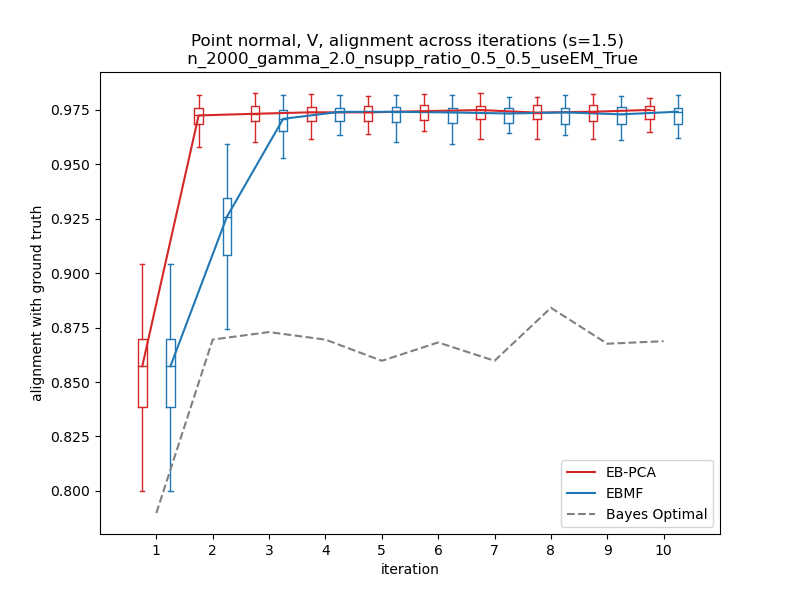
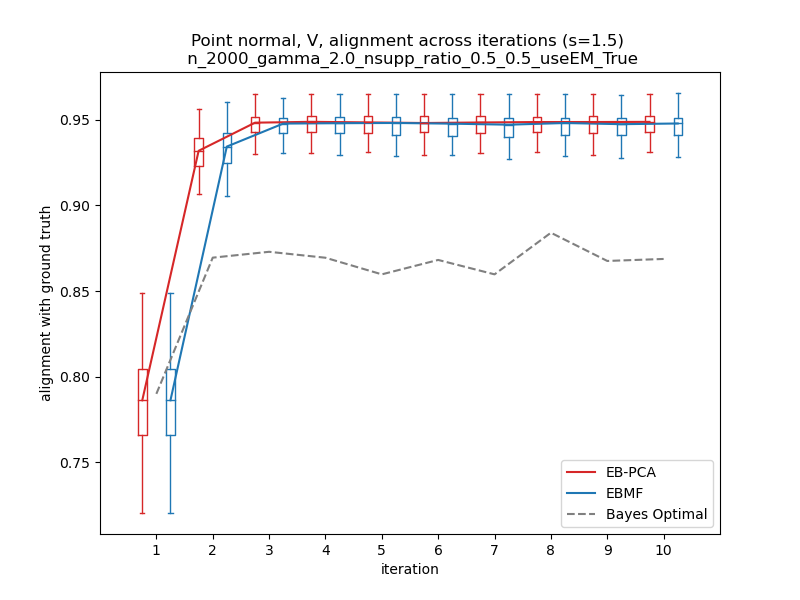
chore: SE progression plots

diff --git a/simulation/rank_one_alignment_iter.py b/simulation/rank_one_alignment_iter.py
@@ -11,10 +11,10 @@ from ebpca.state_evolution import get_state_evolution, get_alignment_evolution, 
 # boxplot
 # ----------------------------------------------
 
-def load_alignments(prior, method, PC = 'left', rm_na=False, prefix = ''):
+def load_alignments(prior, method, PCname = 'U', rm_na=False, prefix = ''):
     prefix = prefix + '/'
     align_dir = 'output/univariate/%s/%salignments' % (prior, prefix)
-    if PC == 'left':
+    if PCname == 'U':
         align = np.load('%s/%s_u_s_%.1f_n_rep_%i.npy' % (align_dir, method, s, n_rep)).T
     else:
         align = np.load('%s/%s_v_s_%.1f_n_rep_%i.npy' % (align_dir, method, s, n_rep)).T
@@ -24,8 +24,8 @@ def load_alignments(prior, method, PC = 'left', rm_na=False, prefix = ''):
         align = align.tolist()
     return align
 
-def group_alignments(prior, rm_na=False, prefix = ''):
-    res = [load_alignments(prior, method, rm_na=rm_na, prefix=prefix) for method in ['EB-PCA', 'EBMF']]
+def group_alignments(prior, PCname, rm_na=False, prefix = ''):
+    res = [load_alignments(prior, method, PCname, rm_na=rm_na, prefix=prefix) for method in ['EB-PCA', 'EBMF']]
     return res
 
 def alignment_boxplots(res, ticks, plot_seps = [-0.5, 0.5], bp_colors = ['#de2d26', '#3182bd']):
@@ -70,8 +70,8 @@ def add_line_to_boxplots(ax, res, plot_seps = [-0.5, 0.5], bp_colors = ['#fc9272
 
 def make_iter_plot(prior, PCname, iters, plot_seps = [-0.5, 0.5],
                    bp_colors = ['#de2d26', '#3182bd'], suffix = '', prefix = ''):
-    res_clean = group_alignments(prior, True, prefix=prefix)
-    res = group_alignments(prior, False, prefix=prefix)
+    res_clean = group_alignments(prior, PCname, True, prefix=prefix)
+    res = group_alignments(prior, PCname, False, prefix=prefix)
     ax = alignment_boxplots(res_clean, [i + 1 for i in range(iters)], plot_seps, bp_colors)
     add_line_to_boxplots(ax, res, plot_seps, bp_colors)
     plt.title('%s, %s, alignment across iterations (s=%.1f) \n %s' % (prior.replace('_', ' '), PCname, s, suffix))
@@ -90,7 +90,7 @@ if __name__ == '__main__':
     }
 
     # Figure 3
-    for s in [1.1, 1.5, 2.0]:
+    for s in [1.3]: #[1.1, 1.5, 2.0]
         for prior in ['Point_normal', 'Two_points', 'Uniform']:
             for PCname in ['U', 'V']:
                 make_iter_plot(prior, PCname, 10, bp_colors=['tab:red', 'tab:blue'], suffix=suffix, prefix=prefix)
@@ -105,3 +105,21 @@ if __name__ == '__main__':
                 plt.legend(loc='lower right')
                 plt.savefig('figures/univariate/Figure3/%s_%s_%.1f_iterations_boxplots_%s.png' % (prior, PCname, s, suffix))
                 plt.close()
+
+    exit()
+    prior = 'Two_points'
+    PCname = 'V'
+    s = 1.5
+    make_iter_plot(prior, PCname, 10, bp_colors=['tab:red', 'tab:blue'], suffix=suffix, prefix=prefix)
+    se = get_state_evolution(s, gamma, mmse_funcs[prior], mmse_funcs[prior], iters)
+    ae = get_alignment_evolution(se)
+    if PCname == 'U':
+        plt.plot([i + 1 - 1 for i in range(0, 2 * iters, 2)], ae.ualigns[:-1],
+                 c='grey', linestyle='--', label='Bayes Optimal')
+    else:
+        plt.plot([i + 1 - 1 for i in range(0, 2 * iters, 2)], ae.valigns[:-1],
+                 c='grey', linestyle='--', label='Bayes Optimal')
+    plt.legend(loc='lower right')
+    plt.show()
+
+    exit()

diff --git a/test_SE.py b/test_SE.py
@@ -18,7 +18,7 @@ import numpy as np
 n = 2000
 p = 1500
 rank = 1
-amp_iters = 2
+amp_iters = 5
 sparsity = 0.1
 
 literals =["Uniform", "Two_points", "Point_normal"]
@@ -28,7 +28,7 @@ mmse_funcs = {
     "Point_normal": point_normal
 }
 
-def simulate_prior(prior, n=2000, seed=1, rank=1, sparsity = 0.5):
+def simulate_prior(prior, n=2000, seed=1, rank=1):
     '''
     simulate univariate or bivariate distributions with marginal 2nd moment=1
     Univariate distributions:
@@ -58,7 +58,7 @@ def simulate_obs(s, uliteral, vliteral, seed):
     ustar = simulate_prior(uliteral, n, seed)
     vstar = simulate_prior(vliteral, p, seed)
 
-    X = signal_plus_noise_model(ustar, vstar, s)
+    X = signal_plus_noise_model(ustar, vstar, s, 1)
 
     X = normalize_obs(X, rank)
     pcapack = get_pca(X, rank)
@@ -101,23 +101,23 @@ if __name__ == "__main__":
     s = 1.5
     ummse = mmse_funcs[uliteral]
     vmmse = mmse_funcs[vliteral]
-    # repeat_simulation(s, uliteral, vliteral, 5)
-    # ualigns = np.load("output/Ualigns_%s.npy" % uliteral)
-    # valigns = np.load("output/Valigns_%s.npy" % vliteral)
+    repeat_simulation(s, uliteral, vliteral, 5)
+    ualigns = np.load("output/Ualigns_%s.npy" % uliteral)
+    valigns = np.load("output/Valigns_%s.npy" % vliteral)
     
     se = get_state_evolution(s, p/n, ummse, vmmse, amp_iters)
     print(se)
-    # ae = get_alignment_evolution(se)
+    ae = get_alignment_evolution(se)
     
-    # print("ualigns means are:")
-    # print(ualigns.mean(axis = 1))
-    # print("ualigns evolutions are:")
-    # print(ae.ualigns[:amp_iters])
+    print("ualigns means are:")
+    print(ualigns.mean(axis = 1))
+    print("ualigns evolutions are:")
+    print(ae.ualigns[:amp_iters])
 
-    # print("valigns means are:")
-    # print(valigns.mean(axis = 1))
-    # print("valigns evolutions are:")
-    # print(ae.valigns[:amp_iters])
+    print("valigns means are:")
+    print(valigns.mean(axis = 1))
+    print("valigns evolutions are:")
+    print(ae.valigns[:amp_iters])
 
 
 
